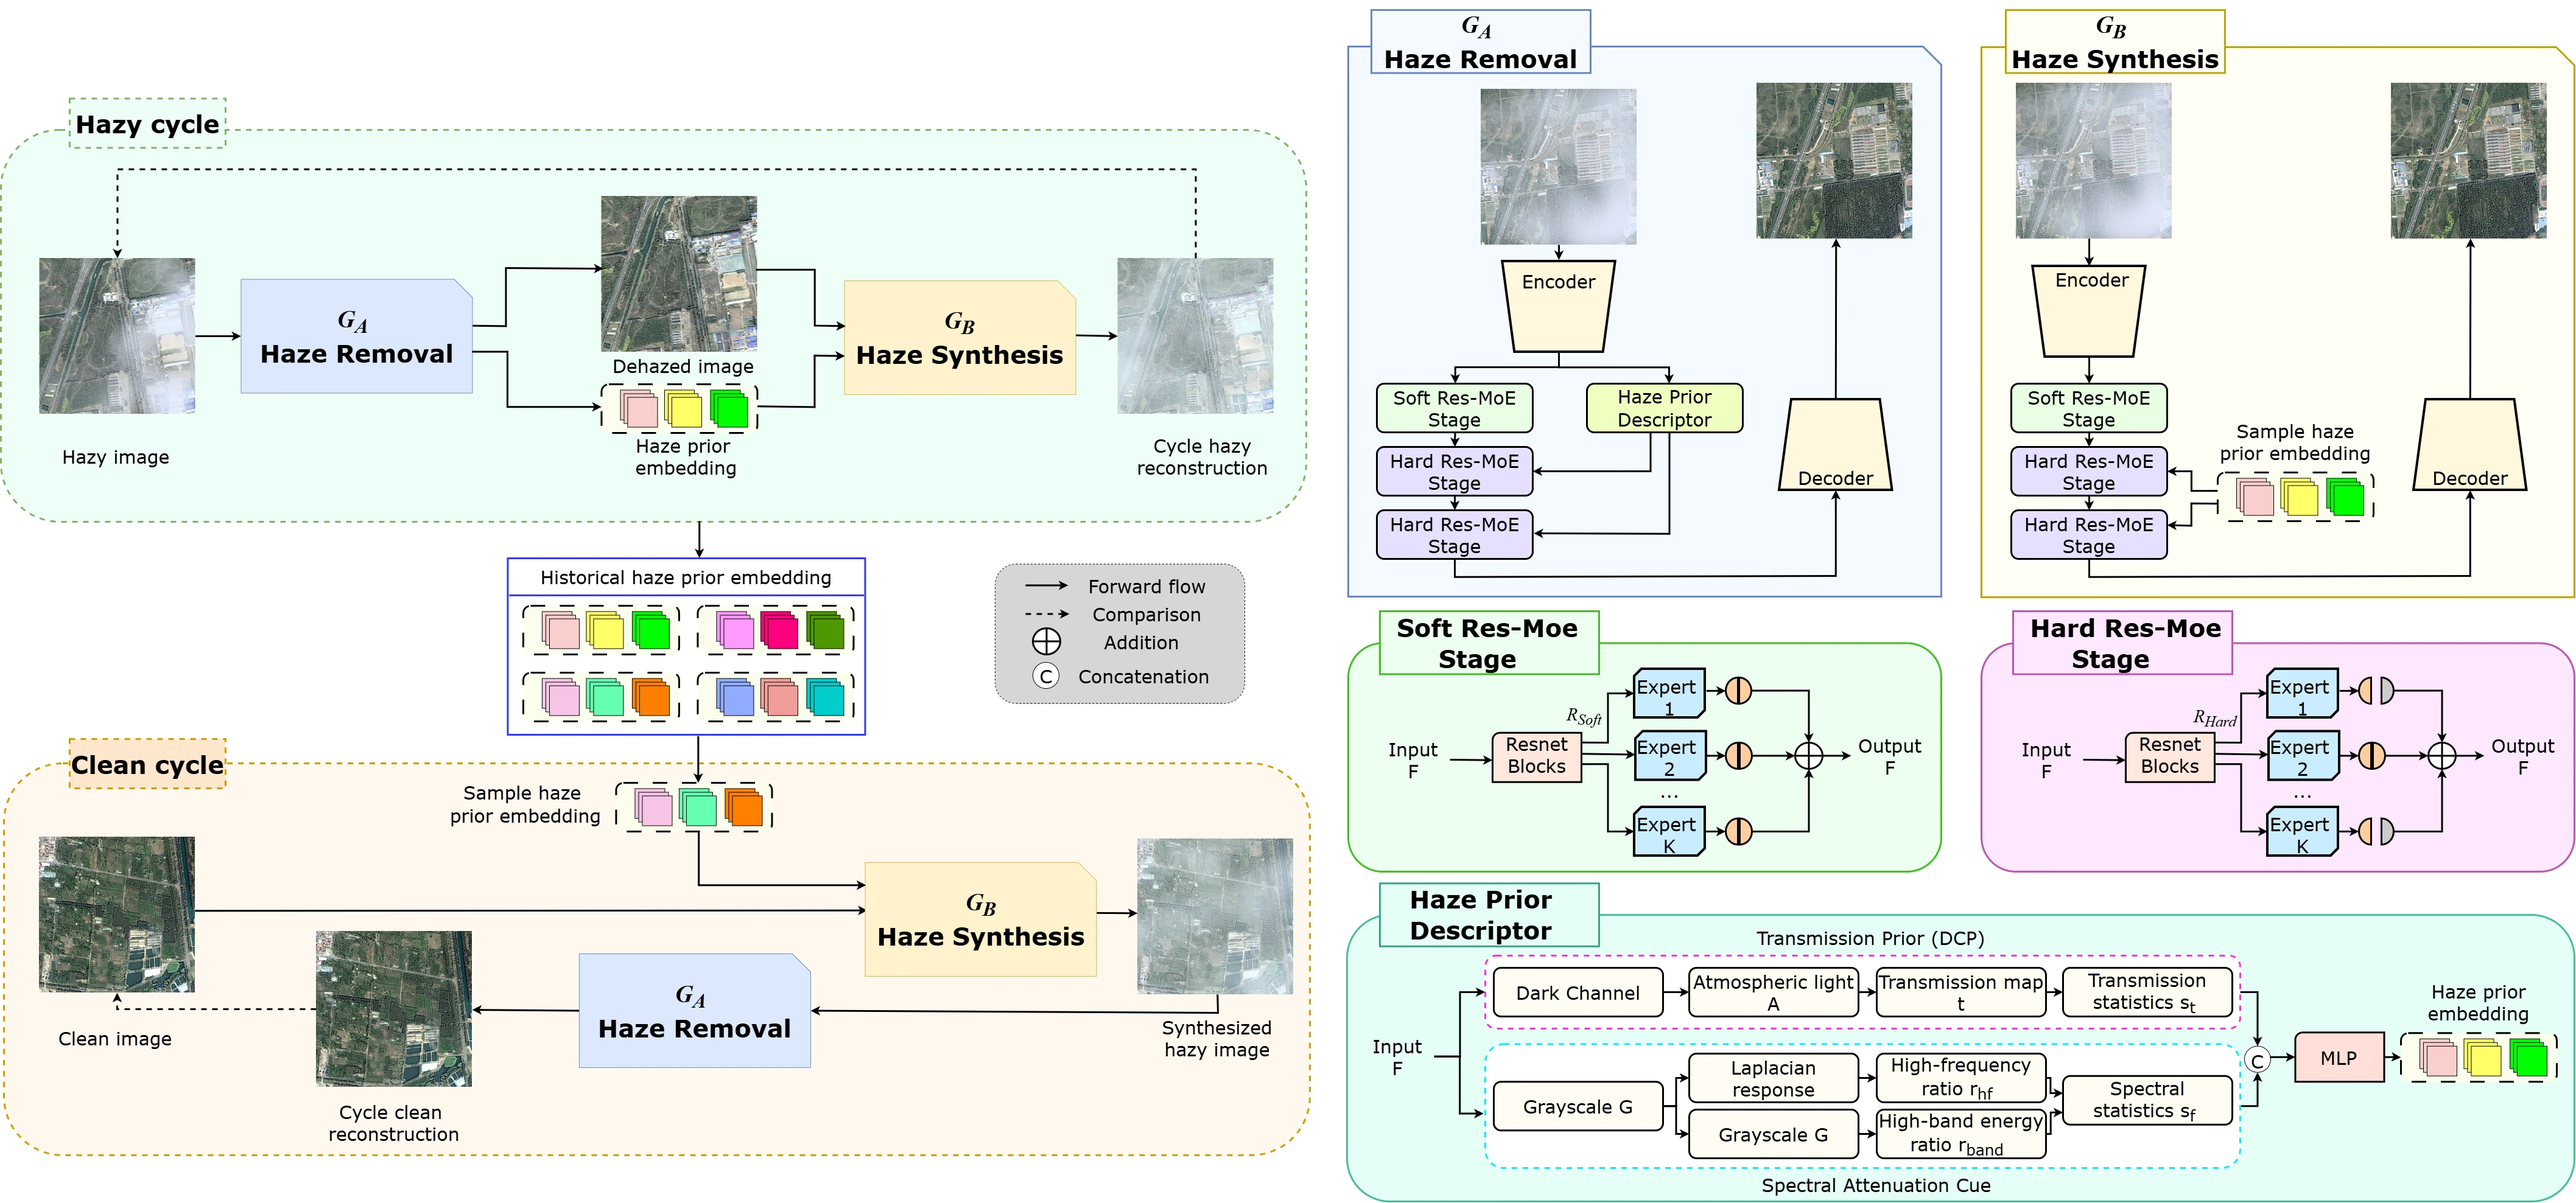
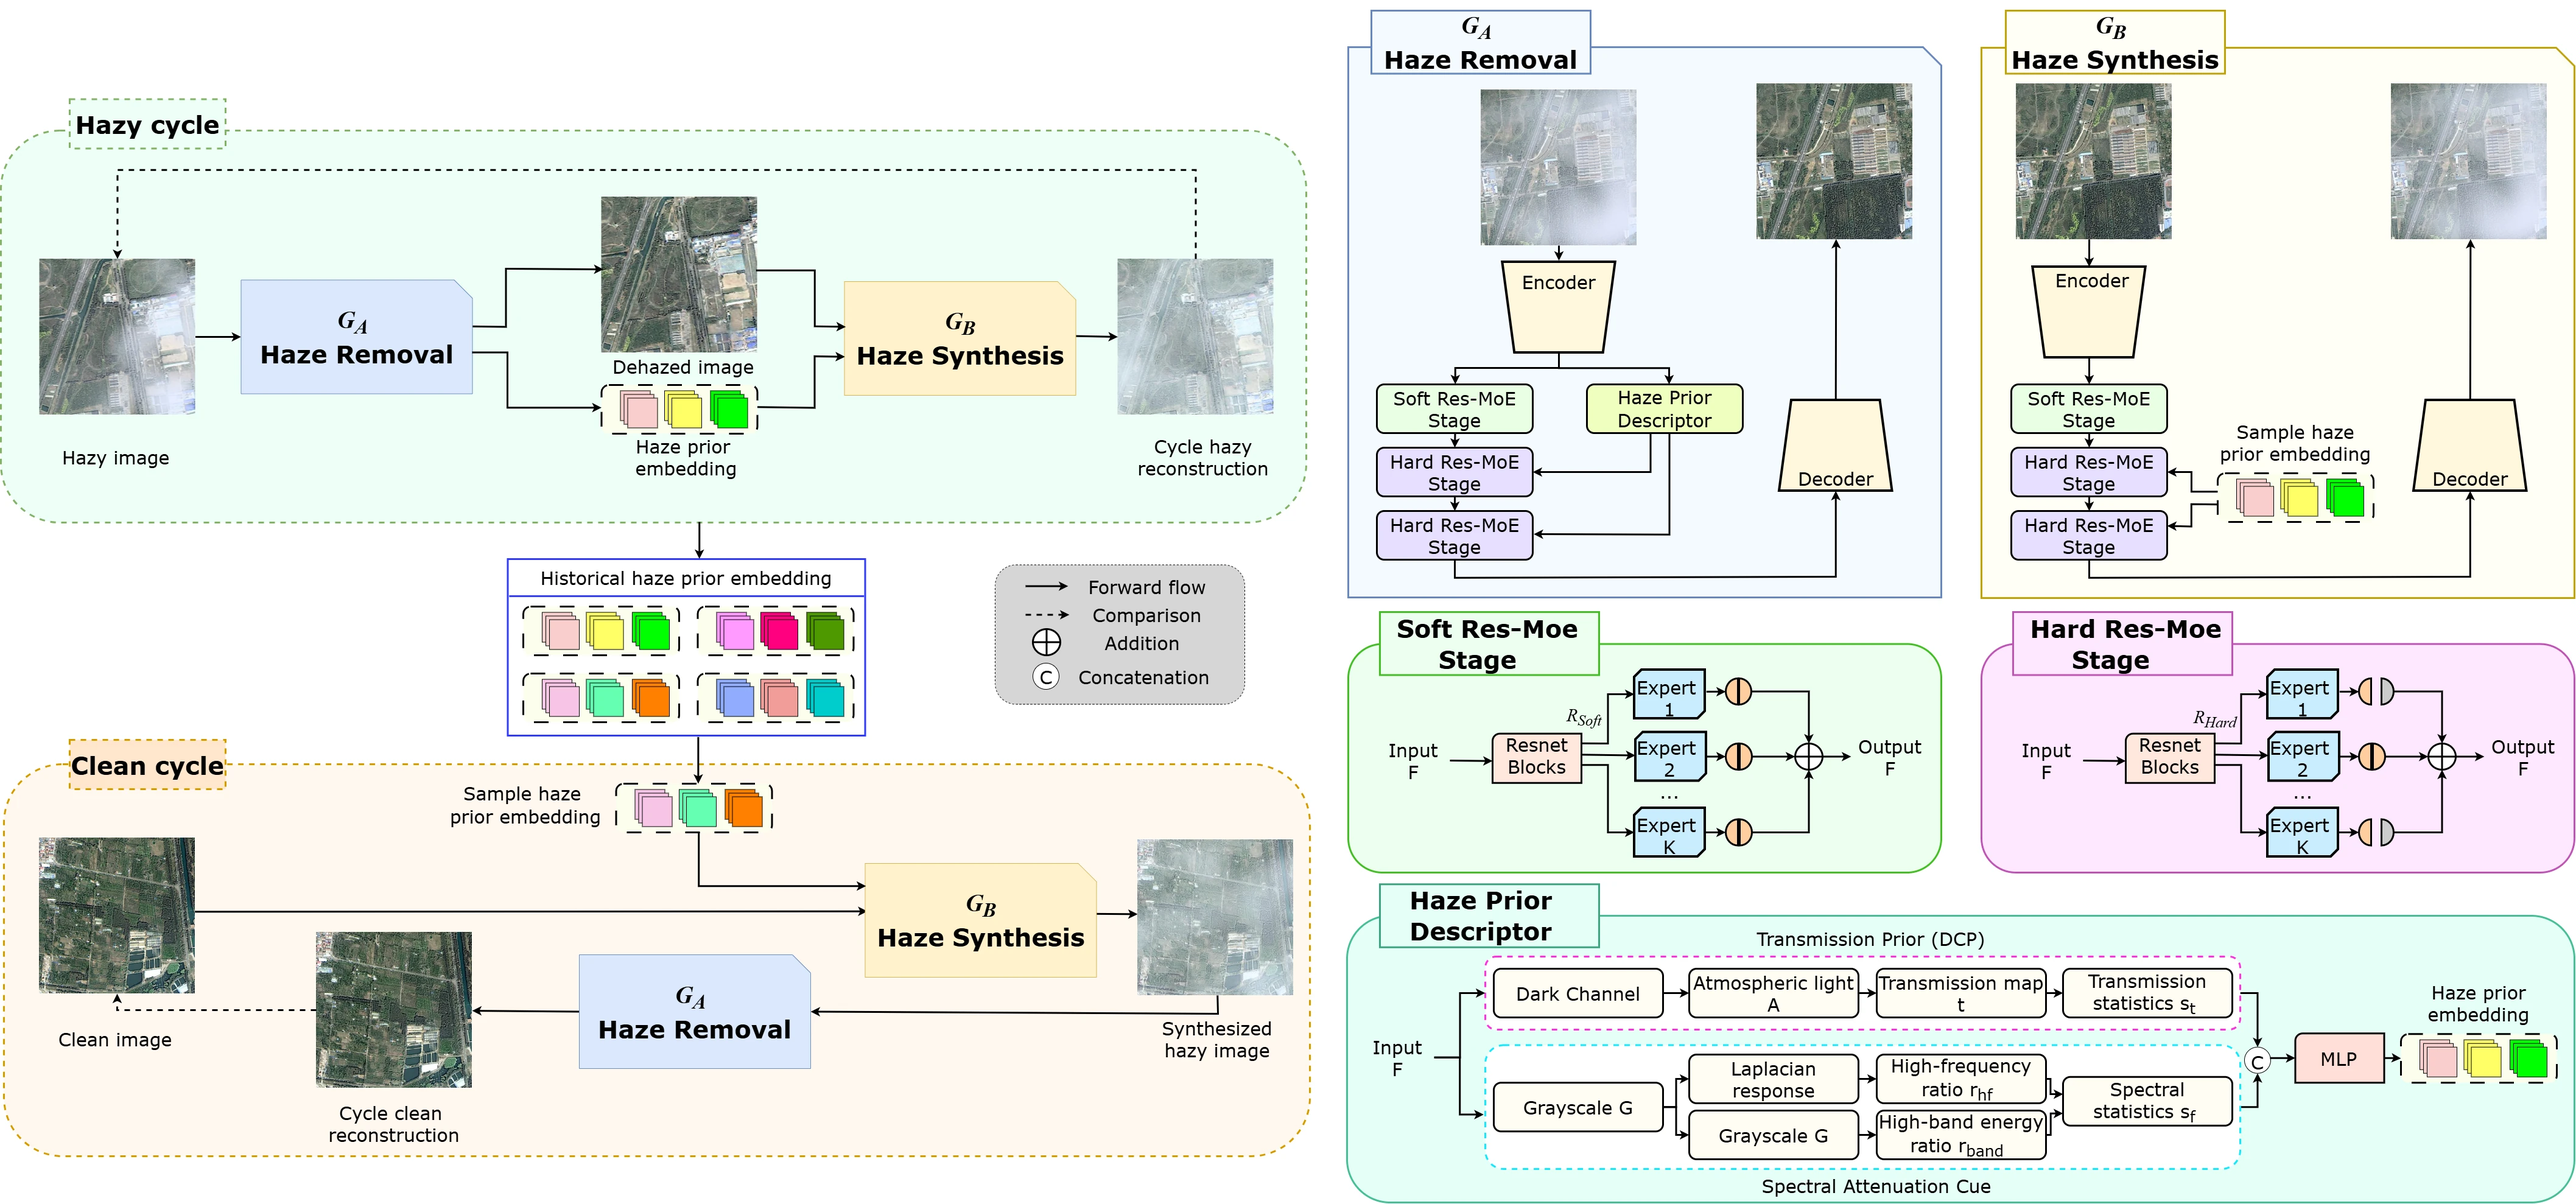
init

diff --git a/index.html b/index.html
@@ -242,13 +242,13 @@
              (~545 KB) only loads when the reader opens it in the lightbox,
              where the small labels in the diagram become legible. -->
             <img
-              src="./assets/framework.webp?v=2"
+              src="./assets/framework.webp?v=3"
               width="1800"
-              height="841"
+              height="842"
               loading="lazy"
               decoding="async"
               data-lightbox="framework"
-              data-full="./assets/framework-full.webp"
+              data-full="./assets/framework-full.webp?v=3"
               data-caption="Overview of the proposed HARD-Dehaze framework pipeline."
               alt="Overview of the proposed framework pipeline"
             />
